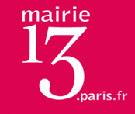
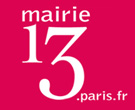
rheader xlarge OK

Changed region(s): [[0.1481, 0.0273, 0.9481, 0.9545]]

diff --git a/src/modules/rheader/_style-xlarge.scss b/src/modules/rheader/_style-xlarge.scss
@@ -22,12 +22,6 @@
   .rheader-logo-nef {
     width: 42px;
 
-    .rheader.arrondissement & {
-      &:after {
-        display: none;
-      }
-    }
-
     &:after {
       background-color: $color-tertiary;
       content: "";
@@ -47,11 +41,75 @@
   .rheader-locales {
     left: 134px; /* fallback for browsers not supporting calc */
     left: calc(50% - #{$rheader-locales-offset});
+    line-height: 2.4rem;
     width: $rheader-logo-paris-width;
   }
 
-  .rheader-locales {
-    line-height: 2.4rem;
+  .rheader-logo-mairie {
+    background: $white center center no-repeat;
+    border-bottom: 10px solid;
+    height: 120px;
+    left: 230px;
+    position: absolute;
+    width: 160px;
+  }
+
+  .rheader.arrondissement {
+    .rheader-logo {
+      left: 20px;
+    }
+
+    .rheader-logo-nef {
+      &:after {
+        bottom: 5px;
+        height: auto;
+        left: 210px;
+        top: 5px;
+      }
+    }
+
+    .rheader-logo-paris {
+      left: 65px;
+      right: auto;
+      width: 125px;
+    }
+
+    .rheader-locales {
+      text-align: right;
+      left: 40px;
+    }
+
+    &.logo-square {
+      .rheader-logo-mairie {
+        background-size: 75%;
+        height: 135px;
+        width: 125px;
+      }
+    }
+
+    &.logo-rectangle {
+      .rheader-logo-mairie {
+        background-size: 80%;
+        height: 100px;
+        width: 170px;
+      }
+    }
+
+    &.arrondissement-9 .rheader-logo-mairie {
+      background-size: 100%;
+      height: 110px;
+      width: 170px;
+    }
+    &.arrondissement-13 .rheader-logo-mairie {
+      background-size: 100%;
+      height: 110px;
+      width: 134px;
+    }
+    &.arrondissement-20 .rheader-logo-mairie {
+      background-size: 100%;
+      height: 110px;
+      width: 140px;
+    }
   }
 
   .rheader-nav-item {

diff --git a/src/modules/rheader/_mixins.scss b/src/modules/rheader/_mixins.scss
@@ -7,6 +7,10 @@
       background-color: $color;
     }
 
+    .rheader-logo-mairie {
+      border-color: $color;
+    }
+
     .rheader-wrapper > .rheader-button,
     .rheader-button-menu,
     .rheader-button-search {
@@ -27,6 +31,10 @@
     .rheader-logo-nef-svg,
     .rheader-logo-paris-svg {
       path {fill: $color;}
+    }
+
+    .rheader-logo-nef:after {
+      background-color: $color;
     }
 
     .rheader-locales a {

diff --git a/src/modules/rheader/_style.scss b/src/modules/rheader/_style.scss
@@ -280,6 +280,12 @@ body.rheader-mobile-nav-open {
   padding-top: $rheader-height-small;
 }
 
+.rheader.arrondissement {
+  .rheader-logo {
+    overflow: visible;
+  }
+}
+
 @import "_style-small";
 @import "_style-small-medium";
 @import "_style-medium";

diff --git a/src/modules/rheader/_style-large.scss b/src/modules/rheader/_style-large.scss
@@ -30,6 +30,10 @@
     }
   }
 
+  .rheader.arrondissement {
+    overflow: visible;
+  }
+
   .rheader,
   .rheader-logo {
     height: $rheader-height-large;
